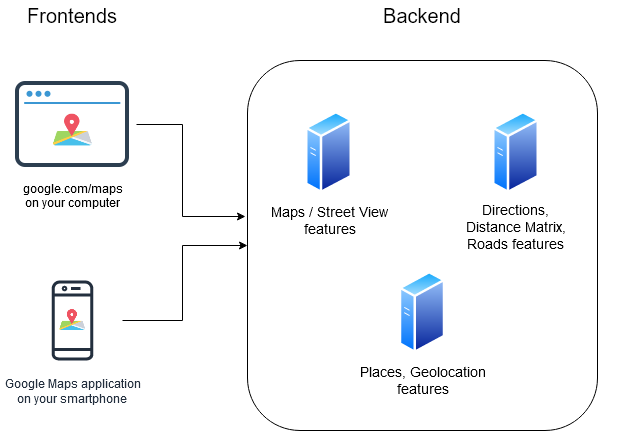
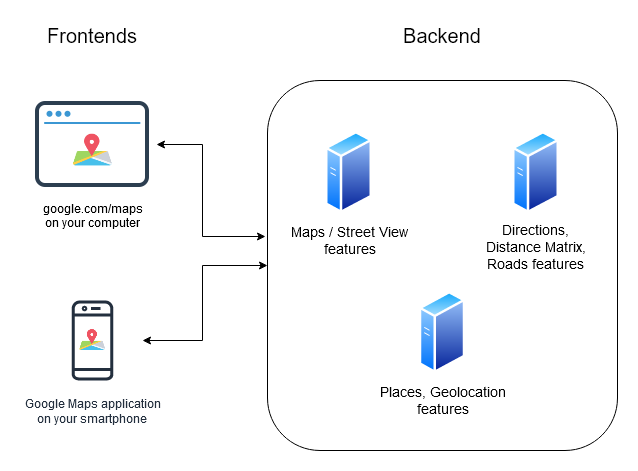
english traduction

diff --git a/_posts/2020-05-22-eli5-it-part1-application.md b/_posts/2020-05-22-eli5-it-part1-application.md
@@ -9,6 +9,62 @@ tags:
   - ELI5
 ---
 
+*English version below*
+
+---
+
+Pour autant que je sache, les gens qui m'entourent, qu'ils soient de ma famille ou de mes amis, ont eu du mal à comprendre ce que je fais de mes journées de travail. Avec ce blog, j'ai enfin l'occasion de l'expliquer.
+
+Le génie informatique est un sujet vraiment complexe. J'ai 27 ans, donc je suis très loin d'en comprendre tous les aspects. Néanmoins, je pense en savoir assez pour expliquer avec des mots simples à quoi ressemble le domaine de l'informatique afin que tout le monde, même les boomers (désolé), puisse comprendre cette industrie très populaire mais assez méconnue.
+
+Comme ce sujet est complexe, j'aurai besoin de BEAUCOUP d'articles pour le couvrir. Mais je m'assurerai de réduire chacun d'entre eux à une notion spécifique pour plus de clarté.
+
+Ce premier article traitera du concept de base de l'application.
+
+## Qu'est-ce qu'une application ?
+
+De nos jours, tout est une application. Vous en connaissez certainement beaucoup : Facebook, Spotify, Google Maps, WhatsApp... Le mot même d'application est un terme fourre-tout qui a perdu beaucoup de son sens. Pour le grand public, le sens du mot application est très proche de celui du mot *logiciel*, "ancien", de l'ère pré-smartphone on peut dire.
+
+**Une application est un ensemble de programmes qui aident l'utilisateur à réaliser une ou plusieurs tâches.**
+
+Prenons un exemple : Google Maps est une application. Son principal objectif est de vous aider à localiser des choses dans le monde. Notez que je ne parle pas de quel appareil vous utilisez pour utiliser cette application.
+
+C'est une notion importante à comprendre : les applications ne sont pas seulement exécutées sur les mobiles. Si vous voulez être précis, vous pouvez en effet parler d'"application mobile", mais toutes les applications ne sont pas spécifiques aux mobiles.
+
+Revenons à l'exemple de Google Maps : avant d'exister sur les smartphones, vous faites l'expérience de Google Maps sur votre ordinateur. Ce n'était même pas un logiciel que vous aviez installé sur votre ordinateur Windows avec un fichier .exe. C'était (et c'est toujours) un service auquel vous accédez avec votre navigateur web à l'adresse google.com/maps. Cela en fait toujours une application. Dans ce cas, nous parlerons d'une *application web*.
+
+## Ok donc je peux accéder au même service sur mon mobile et avec mon ordinateur... Que dois-je comprendre ?
+
+Voici la partie intéressante. Vous comprenez probablement que les ingénieurs de Google n'ont pas développé deux fois le même service, pour le mobile **et** le web.
+
+Nous approchons lentement de notions d'architecture logicielle et je vais essayer de rendre cette partie aussi compréhensible que possible.
+
+Laissez-moi vous présenter les concepts de **frontend** et **backend**.
+
+Dans une application, le frontend est essentiellement l'interface utilisateur, c'est ce que vous voyez lorsque vous tapez facebook.com ou lorsque vous ouvrez l'application Facebook sur votre smartphone.
+
+Ce type d'application ne peut pas fonctionner seule sur votre appareil, elle doit toujours récupérer certaines données sur des serveurs distants. Facebook, par exemple, a besoin de récupérer le contenu de votre fil d'actualité, la liste de vos messages, vos dernières notifications.
+
+Les serveurs requêtés par le frontend hébergent en fait le "backend" qui fait le vrai travail et les calculs. Ceux-ci n'ont pas besoin d'interface graphique utilisateur.
+
+En tant qu'utilisateur final, on ne vous présente que les frontends et ne serez probablement jamais confronté aux services backends, sauf si vous commencez à apprendre le développement.
+
+Dans l'exemple de Google Maps, nous avons deux applications frontends : votre application web google.com/maps et l'application mobile Google Maps. Les services backends sont hébergés sur d'obscurs serveurs Google dont vous n'aurez sûrement jamais connaissance.
+
+![google_maps_frontend_backend_schenma](/assets/images/googlemaps-frontend-backend.png)
+
+Si vous voulez un exemple plus illustré, imaginez des voitures qui partagent le même moteur V8. Vous pouvez comparer le moteur V8 au service backend qui répond aux instructions du conducteur provenant des tableaux de bord de différentes voitures, qui représentent le frontend. Ce n'est pas le meilleur exemple que je puisse vous donner car un moteur ne répond pas à différents tableaux de bord en même temps, mais je pense que vous l'avez compris.
+
+Je pense que cela suffit pour aujourd'hui, dans le prochain article, je vais probablement expliquer un peu plus longuement ce que sont exactement les services backends, ce qui se passe sous le capot de nos applications les plus connues.
+
+N'hésitez pas à commenter cet article et à le partager !
+
+---
+
+*C'est mon 2ème article écrit pour le défi [#100DaysToOffload](https://100daystooffload.com/) !* 
+
+---
+
 As far as I can tell, a lot of my peers, family or friends, has had a hard time figuring out what the hell I am doing of my workdays. With this blog, I finally have the opportunity to explain this.
 
 Computer engineering is a really complex topic. I am 27 years old, so I am very far from understanding all of its aspects. Nevertheless, I think I know enough to explain with simple words what the IT (Information technology) field looks like so anybody, even boomers (sorry), can understand this really popular yet quite unknown industry.
@@ -23,7 +79,7 @@ Nowadays, everything is an application. You certainly know a lot of them: Facebo
 
 **An application is a set of programs that helps the user to achieve one or several tasks.**
 
-Let's take an example: Google Maps is an application. Its main objective is to help you locate things in the world. Note that I am considering which device you are using to use this application.
+Let's take an example: Google Maps is an application. Its main objective is to help you locate things in the world. Note that I am not considering which device you are using to use this application.
 
 This is an important notion to understand: applications are not only executed on mobiles. If you want to be specific, you can indeed talk about "mobile application", but all applications are not mobile-specific.
 
@@ -37,17 +93,23 @@ We are slowly approaching the concepts of Software Architecture and I will try t
 
 Let me introduce you to the concepts of **frontend** and **backend**.
 
-In an application, the frontend is basically the user interface, while the backend actually does the real work and calculation resulting from the frontend's requests which then are presented to the user.
+In an application, the frontend is basically the user interface, this is what you see when you type facebook.com or you open the Facebook application on your smartphone. 
+
+This type of application cannot work on its own on your device, it always needs to retrieve some data from remote servers. Facebook, for example, needs to retrive the content of your news feed, the list of your messages, your latest notifications.
+
+Those servers that are requested by the frontend actually host the "backend" which does the real work and calculations. Those backend services don't need graphical user interface.
 
 You, as a final user, are only presented to frontends and will probably never be faced to backend services, except if you start learning development.
 
-In the Google Maps example, we have two frontends and the backend services are hosted on some obscure Google servers you will never know about.
+In the Google Maps example, we have two frontends : your google.com/maps web application and the Google Maps mobile application. The backend services are hosted on some obscure Google servers you will never know about.
 
 ![google_maps_frontend_backend_schenma](/assets/images/googlemaps-frontend-backend.png)
 
-I think that is enough for today, next article I will probably explain a bit longer what does compose the backend of an application.
+If you want a more illustrated example, imagine some cars that share the same V8 motor. You can compare the V8 motor to the backend service that responds to the conductor instructions coming from different car dashboards, which represents the frontend. This is not the best example I could come with because one motor doesn't responds to different car dashboards at the same time, but I think you got it.
 
-Feel free to comment this article and share it with anyone!
+I think that is enough for today, next article I will probably explain a bit longer what exactly are backend services, what is hapenning under the hood of our most well known applications.
+
+Feel free to comment this article and share it !
 
 ---
 

diff --git a/_posts/2020-05-20-covid19-herd-immunity.md b/_posts/2020-05-20-covid19-herd-immunity.md
@@ -8,6 +8,51 @@ tags:
   - covid19
 ---
 
+*English version below*
+
+---
+
+Cela fait deux mois que le monde a commencé à se confiner à cause du Covid-19. En ce qui me concerne, j'ai suivi activement l'actualité pendant une semaine ou deux, mais je me suis vite lassé dès que j'ai compris que cette pandémie ne disparaîtra pas aussi vite qu'elle n'est apparue et ne s'est propagée.
+
+Et ça me convenait. Je travaillais déjà à distance pour mon client américain et la seule différence que cette nouvelle situation a faite pour moi, c'est que je devais rester chez moi la plupart du temps.
+
+Nous sommes maintenant à deux mois de cette nouvelle pandémie et je me pose encore cette question : **En attendant un vaccin, l'"immunité collective" est-elle la meilleure stratégie pour lutter contre le Covid-19 ?**
+
+Je ne trouverai probablement pas de réponse (car je suis très loin de tout savoir sur le Covid-19 et la médecine en général) mais documentons-nous un peu sur cette question.
+
+Le Dr Christopher Labos, qui est diplômé en épidémiologie, dit :
+
+> L'immunité collective est le concept selon lequel lorsqu'un nombre suffisant de personnes contractent une infection et deviennent immunisées, vous protégez le reste de la population parce que le virus peut plus difficilement se propager.
+
+Cette affirmation implique les éléments suivants :
+
+* Un virus ne survit qu'en passant d'une personne à une autre,
+* Lorsque vous êtes infecté par le virus, vous êtes immunisé grâce à la production d'anticorps
+
+Nous avons également d'autres informations à portée de main :
+
+* Le Covid-19 a probablement besoin que 60 à 70 % de la population soit immunisée afin de pouvoir contrôler la pandémie.
+* Le nombre réel de personnes infectées est probablement loin d'être celui qui est annoncé. Par exemple, en Ontario et au Québec, les chiffres officiels devraient être **multipliés 14 fois pour atteindre des chiffres plus réalistes**.
+* Au moment où nous écrivons ces lignes, 80 102 personnes sont officiellement infectées par le virus au Canada, et le pays compte une population d'environ 37,6 millions d'habitants. 
+80 102 * 14 ~= 1,1 million de cas réels de Covid-19. Cela nous donne un ratio de **presque 3 % de personnes infectées**.
+
+Il semble que nous soyons très loin d'atteindre les taux d'immunité collective au Canada. Avec une augmentation linéaire de l'infection au sein de la population, il nous faudrait 40 à 45 mois pour atteindre le taux requis, et cela nous aiderait **seulement** à contrôler la maladie, et non à l'arrêter complètement.
+
+Notons par ailleurs que :
+
+* Je n'ai pas diminué l'efficacité du processus d'immunité qui sera probablement affecté par les multiples mutations du Covid-19 et le fait qu'une personne infectée asymptomatique pourrait produire moins d'anticorps qu'une personne qui a été durement touchée par la maladie.
+* Je ne prends pas en compte le taux de mortalité. Même s'il est faible (inférieur à 1%), il impliquerait au moins 200 000 décès (uniquement au Canada). C'est tout simplement inacceptable.
+
+Nous sommes encore au tout début de cette pandémie et je suis assez confus avec les politiques appliquées partout dans le monde et leurs différents résultats. En ce qui concerne cette petite recherche, tout ce que je peux conclure, c'est que cette stratégie d'immunité collective n'est pas pertinente. Les récents assouplissements de restrictions en matière de confinement ne font que m'inspirer inquiétude et méfiance.
+
+Je sais que c'est un sujet très complexe et qu'il sera probablement traité dans d'autres articles au cours des prochains mois. N'hésitez pas à commenter cet article car je sais que je peux me tromper sur tout ce que je dis.
+
+---
+
+*C'est mon premier article écrit pour le défi [#100DaysToOffload](https://100daystooffload.com/) !* 
+
+---
+
 It has been two months since the world started to confine itself because of Covid-19. As far as I am concerned, I checked the news actively for one week or two, but I got quickly bored as soon as I understood this pandemic will not disappear as fast as it appeared and spread.
 
 And this was okay for me. I was already working remotely for my US client and the only difference this new situation made for me was that I had to stay at home most of the time.
@@ -22,7 +67,7 @@ Dr. Christopher Labos, who has an epidemiology degree, says:
 
 This statement implies the following elements:
 
-* A virus only survives by jumping from person to person
+* A virus only survives by jumping from person to person,
 * When you get infected by the virus, after a while you gain immunity from the production of antibodies
 
 We also have other information at hands:
@@ -36,16 +81,19 @@ It looks like we are very far from achieving herd immunity rates in Canada. With
 
 Note that:
 
-* I have not lowered the real immunity process which will probably be affected by the multiple mutations of Covid-19 and the fact that an asymptomatic person infected might produce less antibodies than someone who got hit hard by the disease.
+* I have not lowered the efficiency of the immunity process which will probably be affected by the multiple mutations of Covid-19 and the fact that an asymptomatic person infected might produce less antibodies than someone who got hit hard by the disease.
 * I am not taking into account the mortality rate. Even if it is low (lower than 1%), it would imply at least 200 thousand of deaths (only in Canada). This is simply unacceptable.
 
 We are still at the very beginning of this pandemic and I find myself really confused with the policies applied everywhere in the world and their different results. As far as this small research goes, all I can conclude is that this herd immunity strategy is rather irrelevant. The recent lockdown restriction easing only inspire me concern and mistrust.
 
 I know this is a really complex topic and it will probably be covered in other articles in the next months. Feel free to comment this article because I know I might be wrong about everything I say.
 
+---
+
 *This is my 1st article written for the [#100DaysToOffload](https://100daystooffload.com/) challenge !* 
 
 ---
+
 Sources :
 * [Christopher Labos: Herd immunity against COVID-19? There's a big catch - Montreal Gazette](https://montrealgazette.com/opinion/columnists/christopher-labos-herd-immunity-against-covid-19-theres-a-big-catch/)
 * [Les asymptomatiques deviennent-ils immunisés ? - La Voix de l'Est](https://www.lavoixdelest.ca/chroniques/jean-francois-cliche/les-asymptomatiques-deviennent-ils-immunises--9773f42bc92f7a9ec6a71dc0b2b9321c)

diff --git a/_posts/2020-05-19-first-post.md b/_posts/2020-05-19-first-post.md
@@ -7,10 +7,24 @@ tags:
   - 100DaysToOffload
 ---
 
+*English version below* 
+
+---
+
+Me voilà donc en train de relever le défi que je lis sur ce [post](https://100daystooffload.com/) : #100DaysToOffload.
+
+En gros, ce défi consiste à écrire une centaine d'articles par an. Je me connais assez bien, cela n'arrivera probablement jamais. Mais, qui sait ?
+
+Donc je suis là devant mon écran, en train de penser à cette page presque blanche et à la façon dont elle sera remplie dans les prochaines semaines. Je pense que je vais commencer très bientôt avec mes tendances du moment : mode de vie digital nomad, streaming de jeux vidéo, certification Kubernetes...
+
+Au boulot.
+
+---
+
 Here I am, taking on the challenge I read on this [post](https://100daystooffload.com/) : #100DaysToOffload.
 
 Basically, this challenge is about writing a hundred articles in a year. I know myself quite well, this will probably never happen. But, who knows.
 
-So here I am, thinking about this almost blank page and how it will be filled in the next weeks. I guess I will start very soon with my trends of the moment : digital nomad lifestyle, video game streaming, Kubernetes certification...
+So I am standing in front of my screen, thinking about this almost blank page and how it will be filled in the next weeks. I guess I will start very soon with my trends of the moment : digital nomad lifestyle, video game streaming, Kubernetes certification...
 
 Let's get to work.
